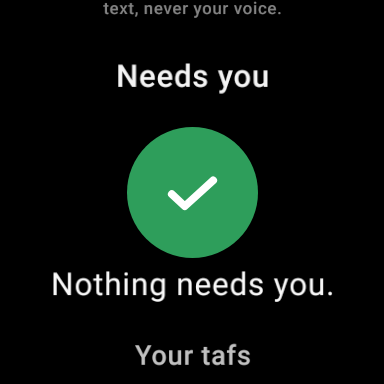
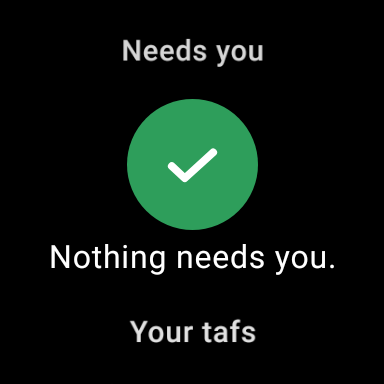
Wear OS: the all-clear's screenshot starts at Needs you, with no line cut at the top

diff --git a/android/wear/src/test/kotlin/bot/tafs/wear/WearStoreScreenshots.kt b/android/wear/src/test/kotlin/bot/tafs/wear/WearStoreScreenshots.kt
@@ -115,7 +115,9 @@ class WearStoreScreenshots(private val language: String, private val playLocale:
   @Test fun allClear() = shot("4-all-clear") {
     WatchScreen(
       read().copy(needsYou = WatchModel.NeedsYouRead(0, Res.s(R.string.needs_you_nothing), emptyList())), null, confirmingHaltAll = false,
-      talk = null, act = actions, list = rememberScalingLazyListState(initialCenterItemIndex = 2),
+      talk = null, act = actions,
+      // A little further on, so the line above Needs you is off the screen rather than cut at its edge.
+      list = rememberScalingLazyListState(initialCenterItemIndex = 2, initialCenterItemScrollOffset = 28),
     )
   }
 
